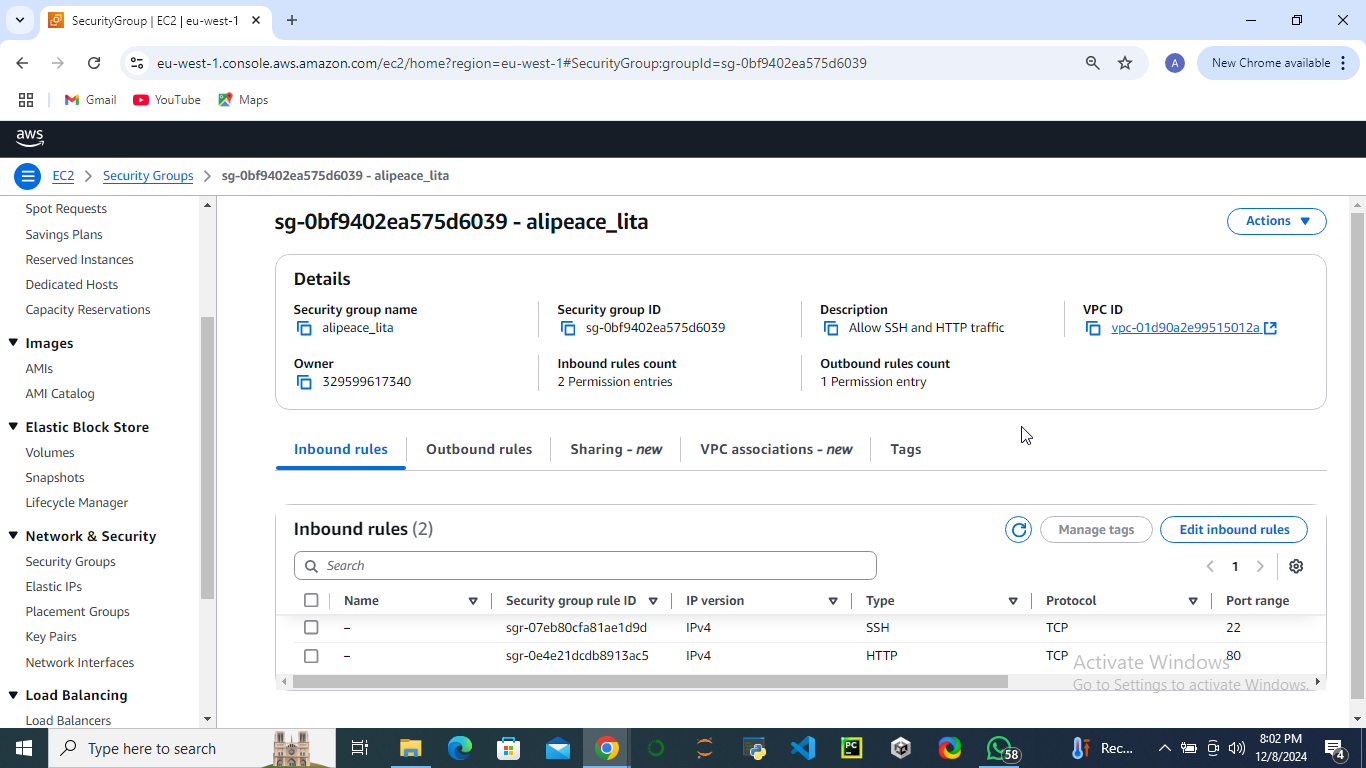
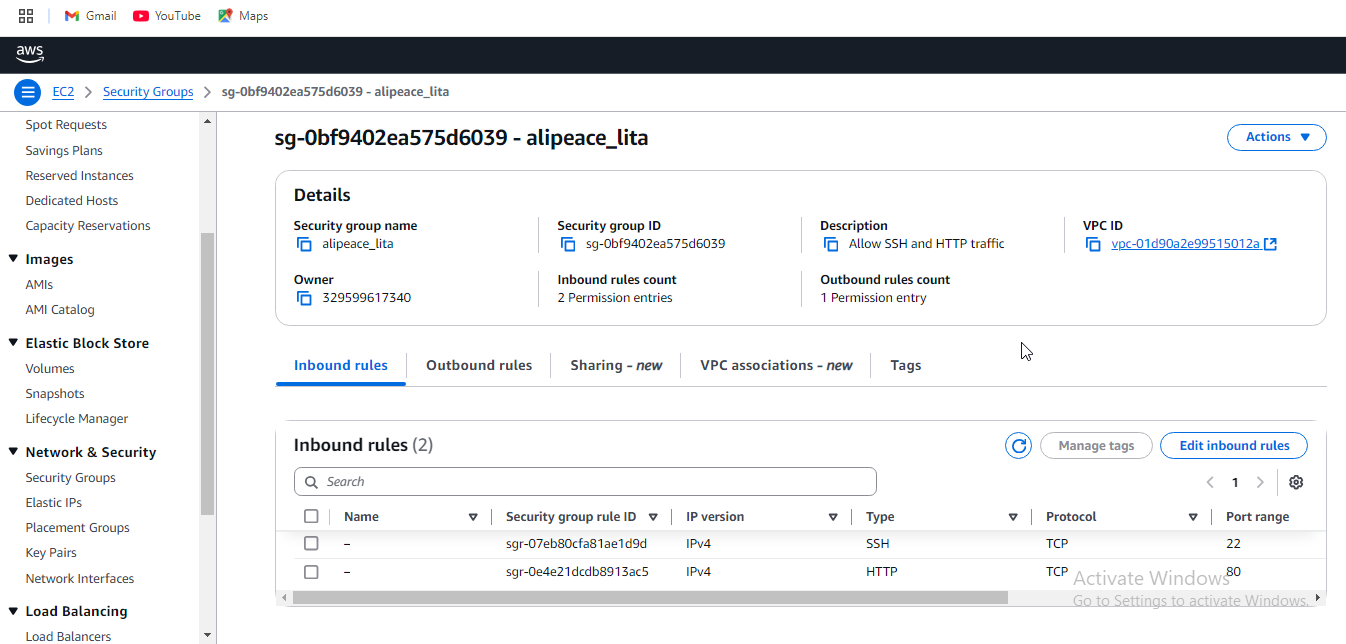
changed the bracket

diff --git a/README.md b/README.md
@@ -34,7 +34,7 @@ and clicked on security group.
 4) Then under the inbound rule setting, i allowed the SSh(IPv4) and HTTP(IPv4).
 5) i then checked if my data was correct and created the security group.
 
-![A screenshot of a security group that was successfuly created]{security group.png}
+![A screenshot of a security group that was successfuly created](security group.png)
 
 
 
